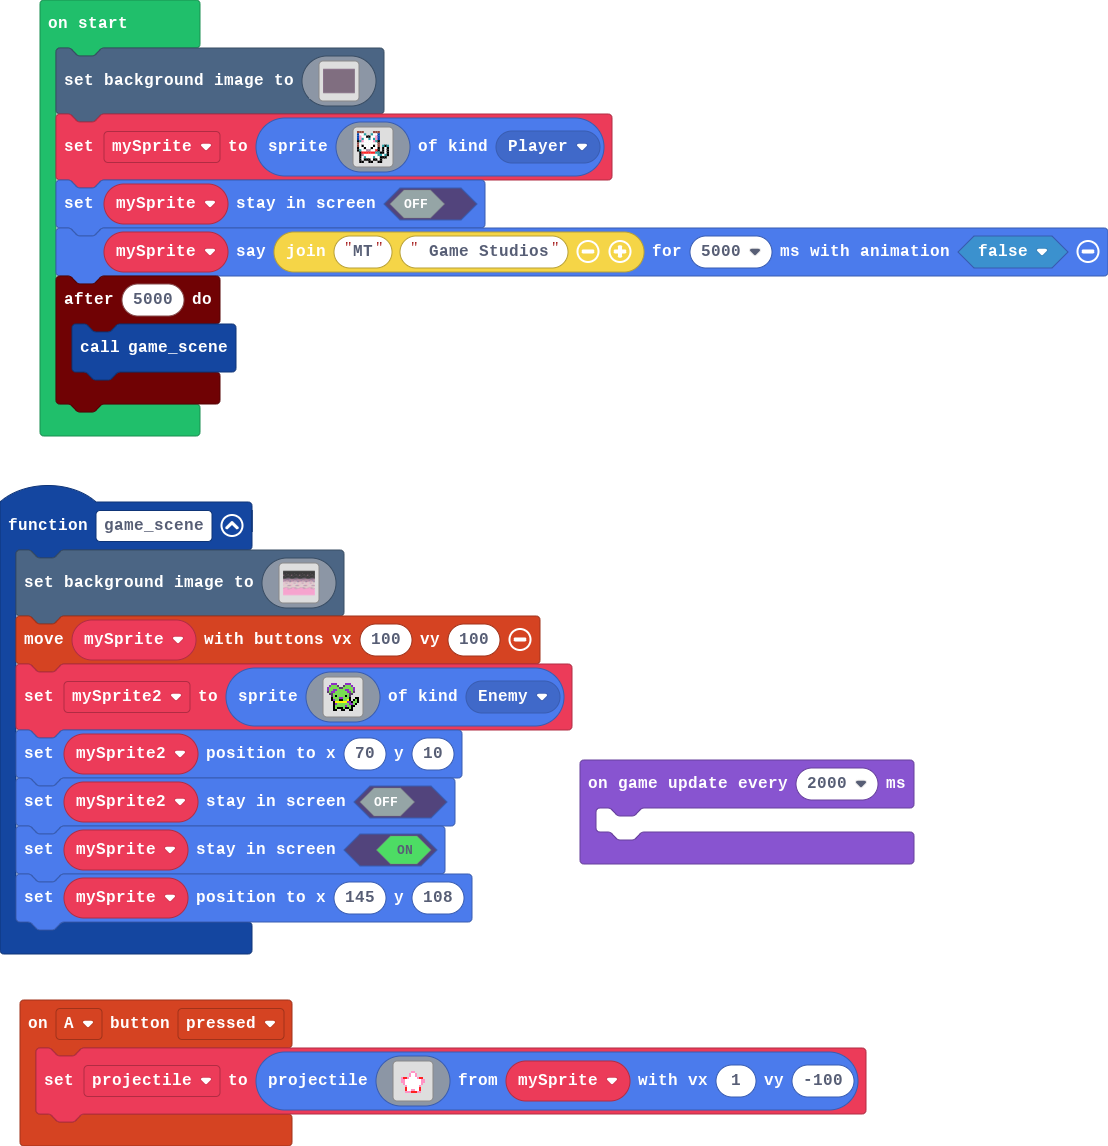
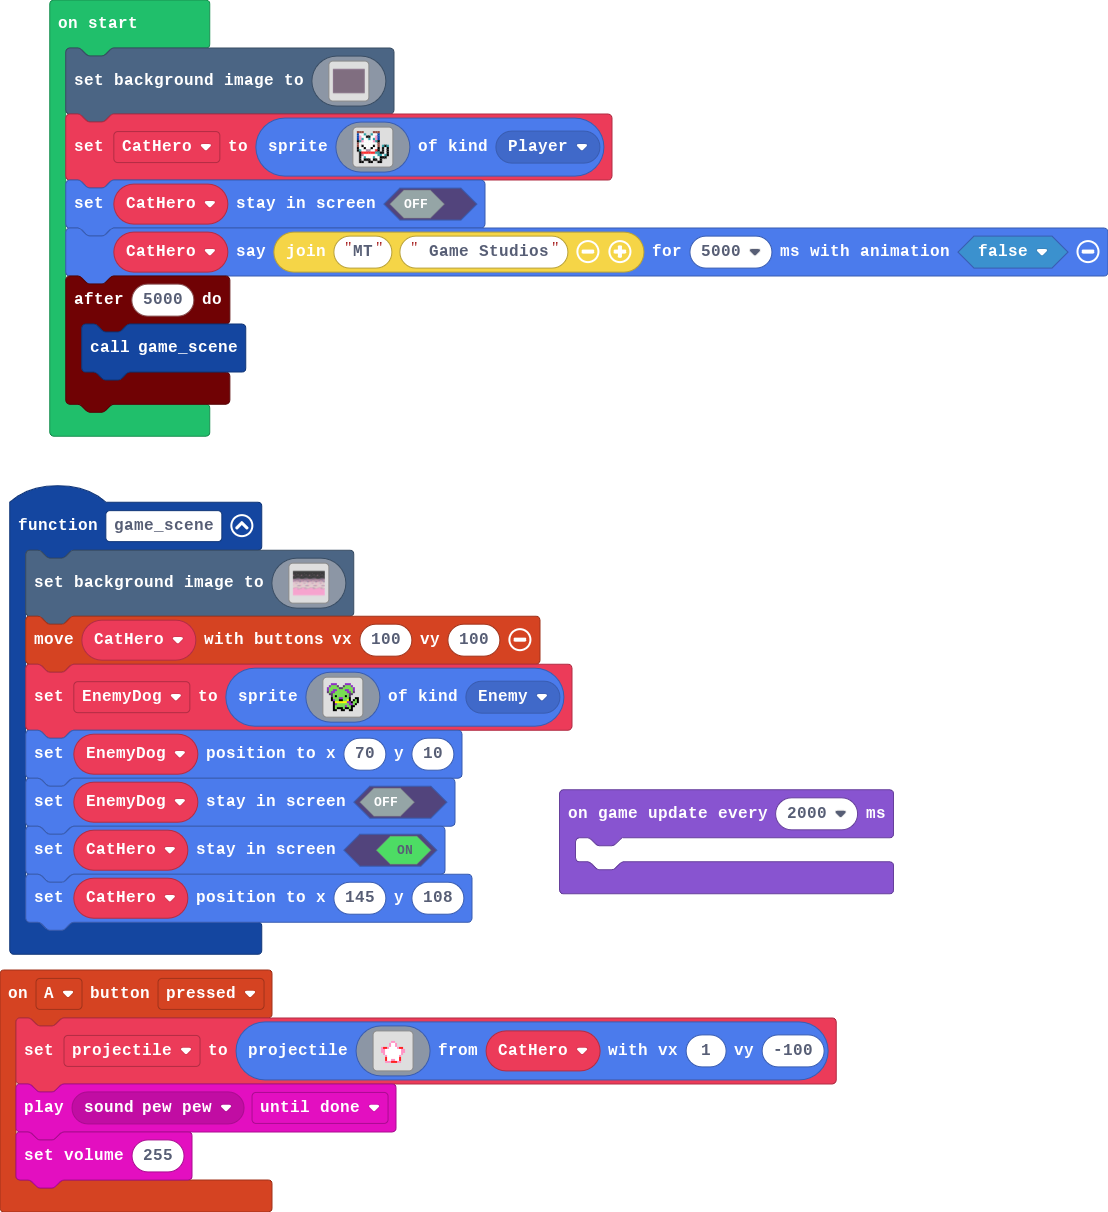
rename variable

diff --git a/main.ts b/main.ts
@@ -16,7 +16,9 @@ controller.A.onEvent(ControllerButtonEvent.Pressed, function () {
         . . . . 3 3 3 2 2 2 3 3 . . . . 
         . . . . . . . . . . . . . . . . 
         . . . . . . . . . . . . . . . . 
-        `, mySprite, 1, -100)
+        `, CatHero, 1, -100)
+    music.play(music.melodyPlayable(music.pewPew), music.PlaybackMode.UntilDone)
+    music.setVolume(255)
 })
 function game_scene () {
     scene.setBackgroundImage(img`
@@ -141,8 +143,8 @@ function game_scene () {
         3333333333333333333333333333333333333333333333333333333333333333333333333333333333333333333333333333333333333333333333333333333333333333333333333333333333333333
         3333333333333333333333333333333333333333333333333333333333333333333333333333333333333333333333333333333333333333333333333333333333333333333333333333333333333333
         `)
-    controller.moveSprite(mySprite, 100, 100)
-    mySprite2 = sprites.create(img`
+    controller.moveSprite(CatHero, 100, 100)
+    EnemyDog = sprites.create(img`
         . . a a a . . . . a a a . . . . 
         . a 7 7 7 c . . c 7 7 7 a . . . 
         a 7 7 7 7 7 c c 7 7 7 7 7 a . . 
@@ -158,14 +160,14 @@ function game_scene () {
         . . . f 7 f f f 7 f f 7 f . . . 
         . . . f f . . f f . . f f . . . 
         `, SpriteKind.Enemy)
-    mySprite2.setPosition(70, 10)
-    mySprite2.setStayInScreen(false)
-    mySprite.setStayInScreen(true)
-    mySprite.setPosition(145, 108)
+    EnemyDog.setPosition(70, 10)
+    EnemyDog.setStayInScreen(false)
+    CatHero.setStayInScreen(true)
+    CatHero.setPosition(145, 108)
 }
-let mySprite2: Sprite = null
+let EnemyDog: Sprite = null
 let projectile: Sprite = null
-let mySprite: Sprite = null
+let CatHero: Sprite = null
 scene.setBackgroundImage(img`
     cccccccccccccccccccccccccccccccccccccccccccccccccccccccccccccccccccccccccccccccccccccccccccccccccccccccccccccccccccccccccccccccccccccccccccccccccccccccccccccccc
     cccccccccccccccccccccccccccccccccccccccccccccccccccccccccccccccccccccccccccccccccccccccccccccccccccccccccccccccccccccccccccccccccccccccccccccccccccccccccccccccc
@@ -288,7 +290,7 @@ scene.setBackgroundImage(img`
     cccccccccccccccccccccccccccccccccccccccccccccccccccccccccccccccccccccccccccccccccccccccccccccccccccccccccccccccccccccccccccccccccccccccccccccccccccccccccccccccc
     cccccccccccccccccccccccccccccccccccccccccccccccccccccccccccccccccccccccccccccccccccccccccccccccccccccccccccccccccccccccccccccccccccccccccccccccccccccccccccccccc
     `)
-mySprite = sprites.create(img`
+CatHero = sprites.create(img`
     e e e . . . . e e e . . . . 
     8 1 1 6 . . 6 1 1 8 . . . . 
     8 3 1 1 f f 1 1 3 8 . . . . 
@@ -304,8 +306,8 @@ mySprite = sprites.create(img`
     . f 1 f f f 1 f f 1 f . . . 
     . f f . . f f . . f f . . . 
     `, SpriteKind.Player)
-mySprite.setStayInScreen(false)
-mySprite.sayText("MT" + " Game Studios", 5000, false)
+CatHero.setStayInScreen(false)
+CatHero.sayText("MT" + " Game Studios", 5000, false)
 timer.after(5000, function () {
     game_scene()
 })
